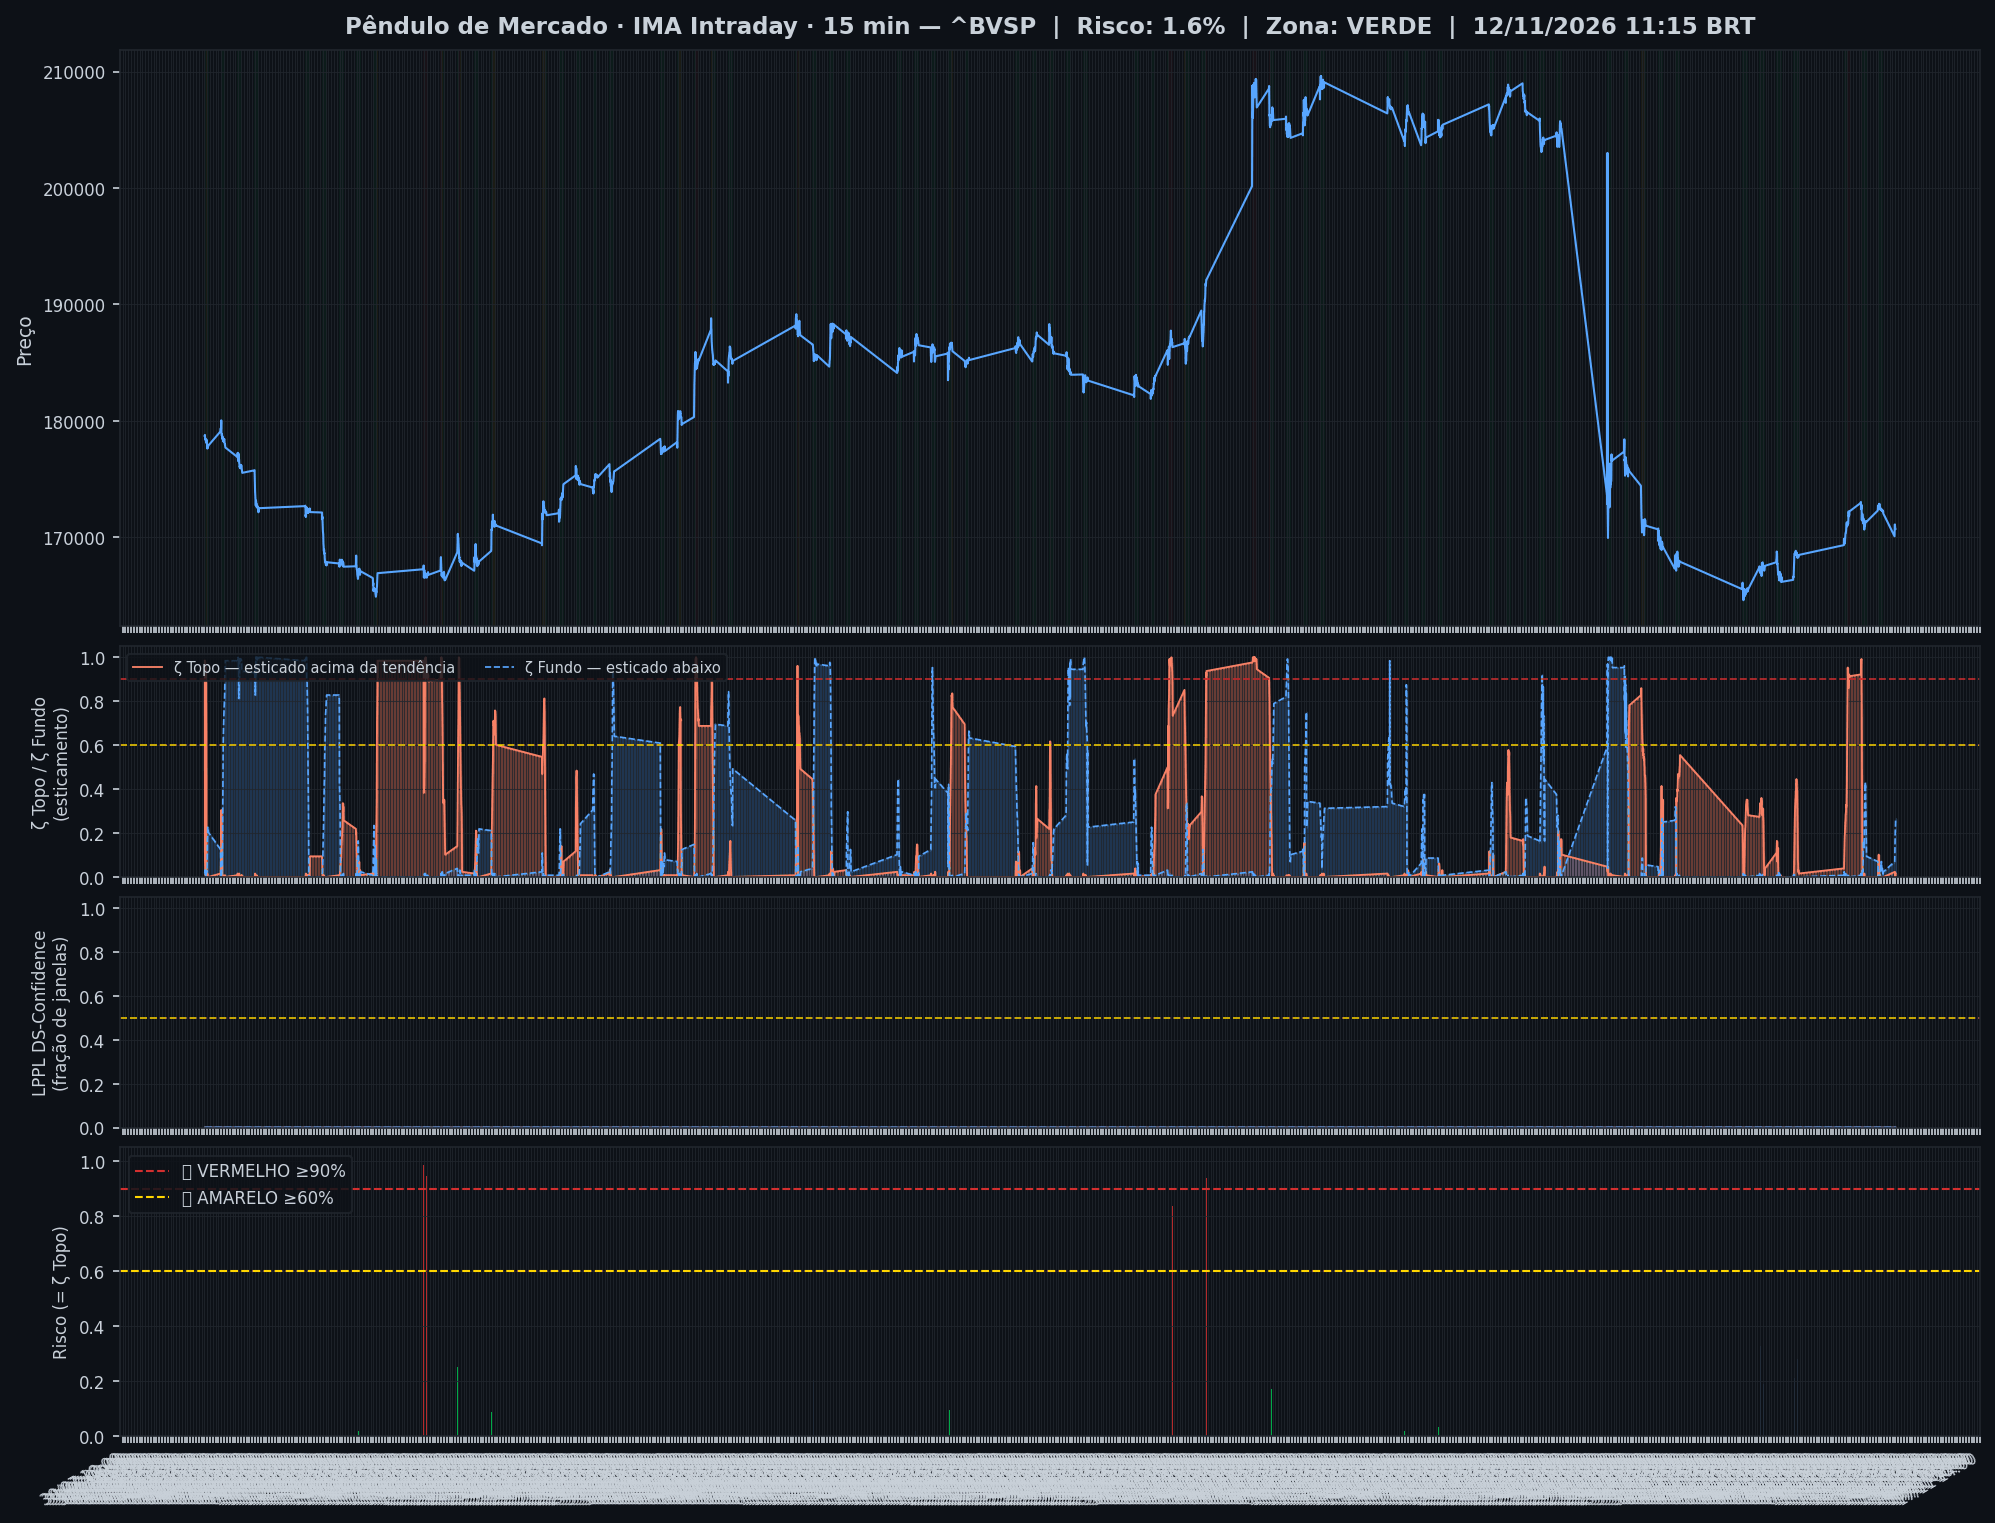
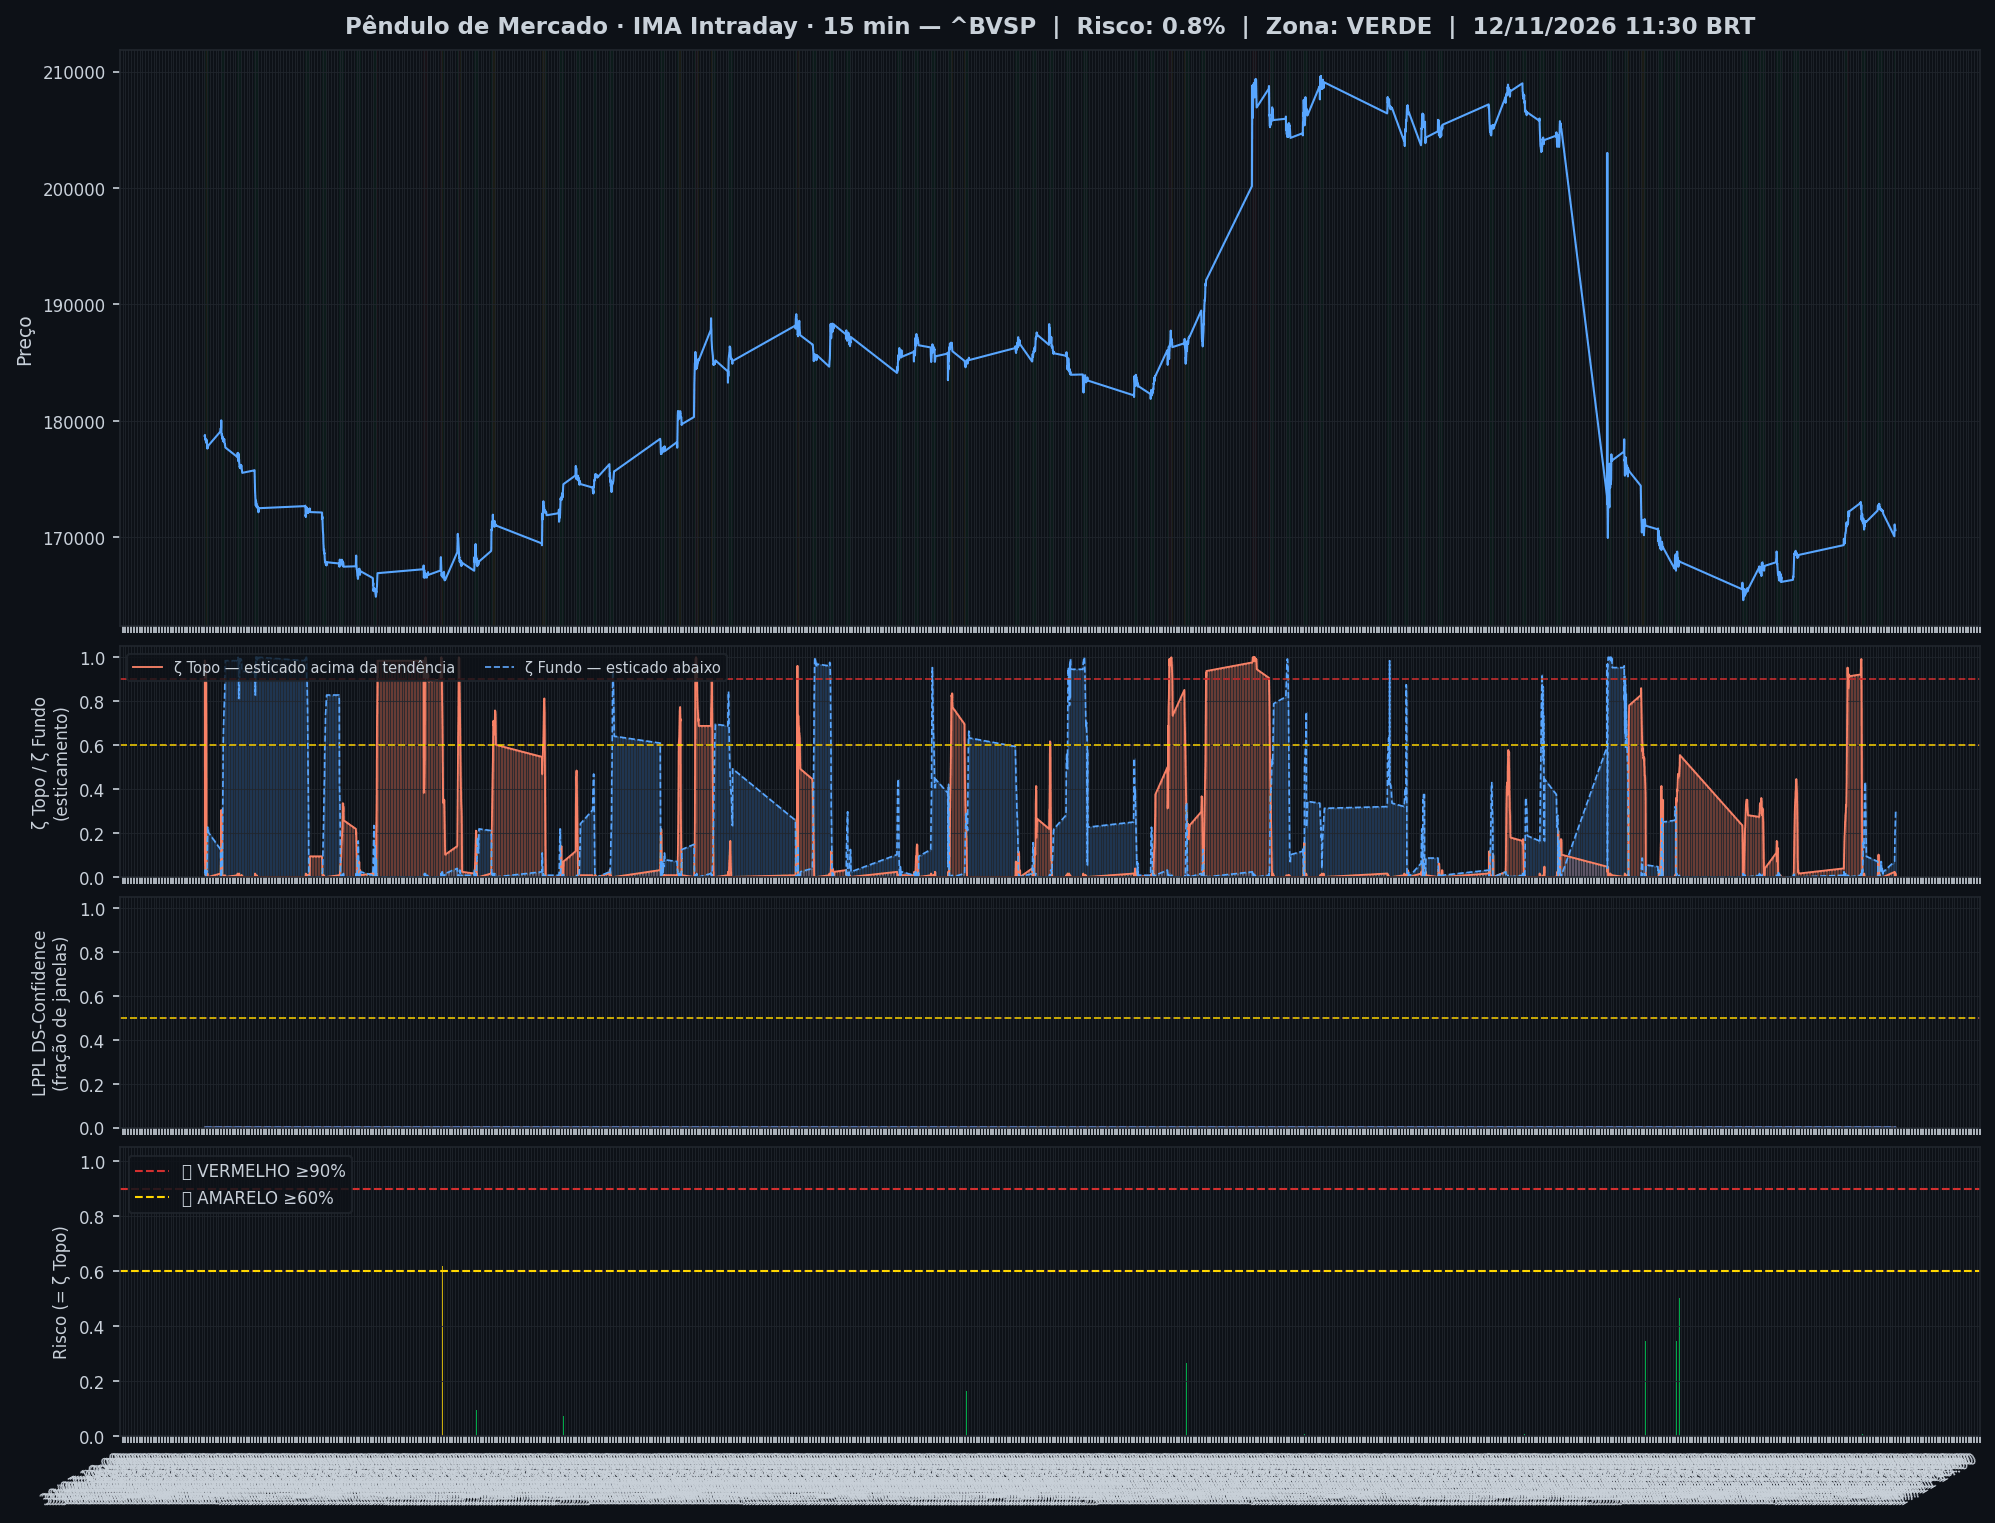
🤖 Auto: Sinal 12/11/2026 11:46

Changed region(s): [[0.7459, 0.4938, 0.9013, 0.5863]]

diff --git a/content/intraday/2026-11-12.md b/content/intraday/2026-11-12.md
@@ -1,11 +1,11 @@
 ---
-title: "🟢 Intraday 12/11/2026 11:15 BRT — VERDE"
+title: "🟢 Intraday 12/11/2026 11:30 BRT — VERDE"
 date: 2026-11-12
 tags: [intraday]
 ---
 
-> [!success] Onde o mercado está agora (12/11 11:15, candles de 15 min): **🟢 Calmo**
-> `Pânico ◀────────●────────────▶ Euforia`
+> [!success] Onde o mercado está agora (12/11 11:30, candles de 15 min): **🟢 Calmo**
+> `Pânico ◀───────●─────────────▶ Euforia`
 >
 > O Ibovespa está dentro da sua faixa normal, sem excesso para cima nem para baixo.
 > No gráfico diário: 🌱 Fundo se desfazendo.
@@ -20,7 +20,7 @@ tags: [intraday]
 > | 📍 **Sinais** | hoje: nenhum sinal | [abrir](sinais-topo-fundo/) |
 > | 🧪 **Placar ao vivo** | 1 operação(ões), 0 com lucro, soma -0,8% | [abrir](operacoes/) |
 
-> [!success] IMA Intraday · 15 min (12/11 11:15): 🟢 **VERDE** — Risco 2% · ▲ +1 p.p. vs leitura anterior
+> [!success] IMA Intraday · 15 min (12/11 11:30): 🟢 **VERDE** — Risco 1% · ▼ -1 p.p. vs leitura anterior
 > `░░░░░░░░░░░░░░░░░░░░`
 > Preço na faixa normal em torno da tendência.
 
@@ -32,13 +32,13 @@ tags: [intraday]
 >
 > *Leitura educacional baseada em 26 anos de dados, não recomendação. [Como usar](../metodologia/crise#3-como-usar-na-prática).*
 
-| Indicador — IMA Intraday · 15 min (12/11 11:15) | Valor |
+| Indicador — IMA Intraday · 15 min (12/11 11:30) | Valor |
 |---|---|
-| 🔴 ζ Topo — preço esticado acima da tendência | **2%** |
-| 🔵 ζ Fundo — preço esticado abaixo da tendência | 27% |
+| 🔴 ζ Topo — preço esticado acima da tendência | **1%** |
+| 🔵 ζ Fundo — preço esticado abaixo da tendência | 30% |
 | 🫧 LPPL bolha — alta super-exponencial (risco de crash) | 0% |
 | 🫧 LPPL antibolha — queda super-exponencial (risco de repique) | 0% |
-| 📊 Ibovespa | 170.735 pts |
+| 📊 Ibovespa | 170.626 pts |
 
 ![Gráfico do sinal](../graficos/sinal_intraday.png)
 
@@ -46,6 +46,7 @@ tags: [intraday]
 
 | Data | Zona | Evento | Risco | ζ Topo | ζ Fundo | LPPL |
 |---|---|---|---|---|---|---|
+| 2026-11-12 11:30 | 🟢 VERDE |  | **1%** | 1% | 30% | 0% |
 | 2026-11-12 11:15 | 🟢 VERDE |  | **2%** | 2% | 27% | 0% |
 | 2026-11-12 11:00 | 🟢 VERDE |  | **1%** | 1% | 23% | 0% |
 | 2026-11-12 10:45 | 🟢 VERDE |  | **0%** | 0% | 21% | 0% |
@@ -75,52 +76,51 @@ tags: [intraday]
 | 2026-11-11 13:00 | 🟢 VERDE |  | **0%** | 0% | 1% | 0% |
 | 2026-11-11 12:45 | 🟢 VERDE |  | **0%** | 0% | 0% | 0% |
 | 2026-11-11 12:30 | 🟢 VERDE |  | **0%** | 0% | 0% | 0% |
-| 2026-11-11 12:15 | 🟢 VERDE |  | **0%** | 0% | 0% | 0% |
 
 <small>Destaques: 🟡 ≥ 60% · 🔴 ≥ 90% (Risco e ζ Topo) · 🔵 ≥ 60% · 🔪 ≥ 90% (ζ Fundo) · 🫧 ≥ 30% · 🫧🔴 ≥ 50% (LPPL)</small>
 
 ## Monitor Multi-Ativo
 
-**0% dos ativos em tensão** (0🔴 1🟡) · **4 com ζ Fundo alto** — quanto mais ativos disparam juntos, mais confiável o sinal.
+**0% dos ativos em tensão** (0🔴 0🟡) · **6 com ζ Fundo alto** — quanto mais ativos disparam juntos, mais confiável o sinal.
 
 > [!danger] Em destaque no multi-ativo
-> 🔪 **BRASIL** ζ Fundo 98% · 🔵 **ITAUSA** ζ Fundo 78% · 🔵 **BTGP BANCO** ζ Fundo 74% · 🔵 **COPEL** ζ Fundo 66%
+> 🔪 **BRASIL** ζ Fundo 99% · 🔪 **BTGP BANCO** ζ Fundo 95% · 🔪 **ITAUSA** ζ Fundo 94% · 🔵 **COPEL** ζ Fundo 70% · 🔵 **AXIA ENERGIA** ζ Fundo 62% · 🔵 **BRADESCO** ζ Fundo 60%
 
 | Zona | Ativo | Setor | ζ Topo | ζ Fundo |
 |---|---|---|---|---|
-| 🟢 | **BRASIL** | Financeiro | 0.8% | 🔪 **98.4%** |
-| 🟢 | **ITAUSA** | Financeiro | 0.0% | 🔵 **78.1%** |
-| 🟢 | **BTGP BANCO** | Financeiro | 0.0% | 🔵 **74.2%** |
-| 🟢 | **COPEL** | Energia | 0.0% | 🔵 **66.4%** |
-| 🟢 | **BRADESCO** | Financeiro | 1.6% | 49.2% |
-| 🟢 | **USD/BRL** | Câmbio | 48.4% | 0.0% |
-| 🟢 | **AXIA ENERGIA** | Energia | 0.0% | 47.7% |
-| 🟡 | **TELEF BRASIL** | Outros | 46.9% | 7.0% |
-| 🟢 | **BBSEGURIDADE** | Financeiro | 1.6% | 35.9% |
-| 🟢 | **ENEVA** | Energia | 0.0% | 35.2% |
-| 🟢 | **EQUATORIAL** | Energia | 0.0% | 31.2% |
-| 🟢 | **ITAUUNIBANCO** | Financeiro | 0.0% | 28.1% |
-| 🟢 | **VALE** | Mineração | 0.0% | 26.6% |
-| 🟢 | **PRIO** | Petróleo | 25.0% | 0.0% |
-| 🟢 | **SUZANO S.A.** | Papel/Celulose | 25.0% | 22.7% |
-| 🟢 | **SABESP** | Saneamento | 0.0% | 21.9% |
-| 🟢 | **B3** | Financeiro | 0.0% | 17.2% |
+| 🟢 | **BRASIL** | Financeiro | 0.8% | 🔪 **99.2%** |
+| 🟢 | **BTGP BANCO** | Financeiro | 0.0% | 🔪 **95.3%** |
+| 🟢 | **ITAUSA** | Financeiro | 0.0% | 🔪 **93.8%** |
+| 🟢 | **COPEL** | Energia | 0.0% | 🔵 **69.5%** |
+| 🟢 | **AXIA ENERGIA** | Energia | 0.0% | 🔵 **62.5%** |
+| 🟢 | **BRADESCO** | Financeiro | 0.8% | 🔵 **60.2%** |
+| 🟢 | **TELEF BRASIL** | Outros | 39.8% | 12.5% |
+| 🟢 | **ENEVA** | Energia | 0.8% | 39.1% |
+| 🟢 | **USD/BRL** | Câmbio | 36.7% | 0.8% |
+| 🟢 | **BBSEGURIDADE** | Financeiro | 0.8% | 35.9% |
+| 🟢 | **EQUATORIAL** | Energia | 1.6% | 34.4% |
+| 🟢 | **ITAUUNIBANCO** | Financeiro | 0.0% | 33.6% |
+| 🟢 | **VALE** | Mineração | 0.0% | 32.0% |
+| 🟢 | **SUZANO S.A.** | Papel/Celulose | 28.9% | 19.5% |
+| 🟢 | **PRIO** | Petróleo | 22.7% | 0.0% |
+| 🟢 | **SABESP** | Saneamento | 0.0% | 21.1% |
+| 🟢 | **B3** | Financeiro | 0.0% | 18.8% |
 | 🟢 | **REDE D OR** | Saúde | 0.8% | 16.4% |
 | 🟢 | **LOCALIZA** | Aluguel | 0.8% | 12.5% |
-| 🟢 | **PETROBRAS** | Petróleo | 6.2% | 10.2% |
-| 🟢 | **WEG** | Industrial | 10.2% | 0.0% |
-| 🟢 | **PETROBRAS** | Petróleo | 7.8% | 0.0% |
-| 🟢 | **EMBRAER** | Outros | 5.5% | 0.0% |
-| 🟢 | **ULTRAPAR** | Outros | 1.6% | 5.5% |
-| 🟢 | **VIBRA** | Energia | 2.3% | 3.9% |
-| 🟢 | **GERDAU** | Siderurgia | 0.8% | 1.6% |
-| 🟢 | **AMBEV S/A** | Consumo | 0.8% | 0.0% |
+| 🟢 | **WEG** | Industrial | 10.9% | 0.0% |
+| 🟢 | **EMBRAER** | Outros | 7.8% | 0.8% |
+| 🟢 | **VIBRA** | Energia | 7.0% | 2.3% |
+| 🟢 | **ULTRAPAR** | Outros | 7.0% | 3.9% |
+| 🟢 | **PETROBRAS** | Petróleo | 3.1% | 6.2% |
+| 🟢 | **PETROBRAS** | Petróleo | 3.9% | 0.8% |
+| 🟢 | **GERDAU** | Siderurgia | 1.6% | 0.0% |
+| 🟢 | **AMBEV S/A** | Consumo | 0.0% | 0.0% |
 
 <small>Destaques: 🟡 ≥ 60% · 🔴 ≥ 90% (Risco e ζ Topo) · 🔵 ≥ 60% · 🔪 ≥ 90% (ζ Fundo) · 🫧 ≥ 30% · 🫧🔴 ≥ 50% (LPPL)</small>
 
 ![Monitor multi-ativo](../graficos/multi_intraday.png)
 
-*Página atualizada em 12/11/2026 11:30 BRT (leitura da barra de 2026-11-12 11:15 BRT).*
+*Página atualizada em 12/11/2026 11:45 BRT (leitura da barra de 2026-11-12 11:30 BRT).*
 
 > [!warning] O que este indicador não faz
 > Medido em 5 anos de Ibovespa, o ζ **não antecipa** topos nem fundos: a capacidade de separar o que sobe do que cai ficou em 0,49–0,52, e 0,50 é moeda jogada ao ar. Ele descreve o estado de agora; não é aviso do que vem. As zonas verde/amarelo/vermelho continuam na página como descrição desse estado — **não as use como sinal de entrada ou saída**.

diff --git a/content/index.md b/content/index.md
@@ -6,10 +6,10 @@ tags: [home]
 
 **As ondas do mercado, explicadas.** Leitura do Ibovespa com estatística de 26 anos, baseada no trabalho de pesquisadores e traders reconhecidos e adaptada por Jarbas Daniel da Costa.
 
-*Última atualização: 12/11/2026 11:30 BRT · Intraday 15min*
+*Última atualização: 12/11/2026 11:45 BRT · Intraday 15min*
 
-> [!success] Onde o mercado está agora (12/11 11:15, candles de 15 min): **🟢 Calmo**
-> `Pânico ◀────────●────────────▶ Euforia`
+> [!success] Onde o mercado está agora (12/11 11:30, candles de 15 min): **🟢 Calmo**
+> `Pânico ◀───────●─────────────▶ Euforia`
 >
 > O Ibovespa está dentro da sua faixa normal, sem excesso para cima nem para baixo.
 > No gráfico diário: 🌱 Fundo se desfazendo.
@@ -20,7 +20,7 @@ tags: [home]
 
 | Módulo | Agora | |
 |---|---|---|
-| 🌊 **Sinal IMA** | 🟢 VERDE · 🟢 calmo · ζ Topo 2% | [relatório](intraday/2026-11-12) |
+| 🌊 **Sinal IMA** | 🟢 VERDE · 🟢 calmo · ζ Topo 1% | [relatório](intraday/2026-11-12) |
 | 📈 **Tendência MME9** | Diário — fora<br>Semanal — fora | [abrir](operacoes/tendencia) |
 | 🎯 **Entradas do método** | ⏳ aguardando: Diário · Nadaraya, Diário · Semáforo N3 após ζ Fundo | [abrir](operacoes/entradas) |
 | 📍 **Sinais** | hoje: nenhum sinal | [abrir](sinais-topo-fundo/) |
@@ -44,26 +44,26 @@ tags: [home]
 > *Leitura educacional baseada em 26 anos de dados, não recomendação. [Como usar](metodologia/crise#3-como-usar-na-prática).*
 
 > [!info]- 🌊 Detalhes do Sinal IMA (indicadores e últimos 7 pregões)
-> > [!success] IMA Intraday · 15 min (12/11 11:15): 🟢 **VERDE** — Risco 2% · ▲ +1 p.p. vs leitura anterior
+> > [!success] IMA Intraday · 15 min (12/11 11:30): 🟢 **VERDE** — Risco 1% · ▼ -1 p.p. vs leitura anterior
 > > `░░░░░░░░░░░░░░░░░░░░`
 > > Preço na faixa normal em torno da tendência.
 >
 >
-> | Indicador — IMA Intraday · 15 min (12/11 11:15) | Valor |
+> | Indicador — IMA Intraday · 15 min (12/11 11:30) | Valor |
 > |---|---|
-> | 🔴 ζ Topo — preço esticado acima da tendência | **2%** |
-> | 🔵 ζ Fundo — preço esticado abaixo da tendência | 27% |
+> | 🔴 ζ Topo — preço esticado acima da tendência | **1%** |
+> | 🔵 ζ Fundo — preço esticado abaixo da tendência | 30% |
 > | 🫧 LPPL bolha — alta super-exponencial (risco de crash) | 0% |
 > | 🫧 LPPL antibolha — queda super-exponencial (risco de repique) | 0% |
-> | 📊 Ibovespa | 170.735 pts |
+> | 📊 Ibovespa | 170.626 pts |
 >
-> **Multi-ativo:** 0% em tensão (0🔴 1🟡 de 27 ativos)
+> **Multi-ativo:** 0% em tensão (0🔴 0🟡 de 27 ativos)
 >
 > **Últimos 7 pregões**
 >
 > | Data | Zona | Risco | ζ Topo | ζ Fundo | LPPL |
 > |---|---|---|---|---|---|
-> | [12/11/2026](intraday/2026-11-12) | 🟢 VERDE | **2%** | 2% | 27% | 0% |
+> | [12/11/2026](intraday/2026-11-12) | 🟢 VERDE | **1%** | 1% | 30% | 0% |
 > | [11/11/2026](intraday/2026-11-11) | 🟢 VERDE | **0%** | 0% | 2% | 0% |
 >
 > <small>Destaques: 🟡 ≥ 60% · 🔴 ≥ 90% (Risco e ζ Topo) · 🔵 ≥ 60% · 🔪 ≥ 90% (ζ Fundo) · 🫧 ≥ 30% · 🫧🔴 ≥ 50% (LPPL)</small>

diff --git a/content/historico.md b/content/historico.md
@@ -5,7 +5,7 @@ tags: [historico]
 
 # 📜 Histórico de leituras (v5)
 
-**2.318 leituras** desde 2026-07-03. Na página ficam os últimos 3 dias leitura por leitura e o resumo de cada dia anterior; o registro inteiro está no arquivo para baixar.
+**2.319 leituras** desde 2026-07-03. Na página ficam os últimos 3 dias leitura por leitura e o resumo de cada dia anterior; o registro inteiro está no arquivo para baixar.
 
 [**Baixar o histórico completo**](historico-completo.csv) (102 KB · abre no Excel e no LibreOffice)
 
@@ -16,6 +16,7 @@ tags: [historico]
 
 | Data | Modo | Zona | Risco | IMA | LPPL |
 |---|---|---|---|---|---|
+| 2026-11-12 11:30 | intraday | 🟢 VERDE | 1% | 1% | 0% |
 | 2026-11-12 11:15 | intraday | 🟢 VERDE | 2% | 2% | 0% |
 | 2026-11-12 11:00 | intraday | 🟢 VERDE | 1% | 1% | 0% |
 | 2026-11-12 10:45 | intraday | 🟢 VERDE | 0% | 0% | 0% |

diff --git a/content/operacoes/ranking.md b/content/operacoes/ranking.md
@@ -5,7 +5,7 @@ tags: [operacoes]
 description: "As regras de compra do site ordenadas pelo resultado, com treino, teste e placar ao vivo"
 ---
 
-*Atualizado 12/11/2026 11:30 · histórico simulado com as regras congeladas em 23/10/2026 + placar ao vivo.*
+*Atualizado 12/11/2026 11:45 · histórico simulado com as regras congeladas em 23/10/2026 + placar ao vivo.*
 
 As regras de compra do site, **da que mais rendeu para a que menos rendeu**. O resultado é por operação, no índice à vista, sem custos e sem juros compostos (a soma é só a soma das operações). **Treino** = entradas de 2001 a 2013 e **teste** = 2014 em diante: uma regra só é confiável se ganhou nos dois. O único resultado sem nenhum ajuste ao histórico é o **placar ao vivo**.
 

diff --git a/content/linha-do-tempo/index.md b/content/linha-do-tempo/index.md
@@ -5,7 +5,7 @@ description: "Todo sinal, ordem, stop e aviso do Pêndulo de Mercado, do mais re
 tags: [eventos]
 ---
 
-*Atualizada 12/11/2026 11:30 BRT · a cada 15 min no pregão e às 19h.*
+*Atualizada 12/11/2026 11:46 BRT · a cada 15 min no pregão e às 19h.*
 
 Tudo o que o sistema fez ou detectou, **do mais recente para o mais antigo**: sinais de topo e fundo, ordens de compra e de venda armadas, compras, vendas, stops, avisos de 🚨 preço perto do nível e mudanças do Sinal IMA. Os **últimos 7 dias** ficam abertos; o resto, por **ano → mês → dia**.
 
